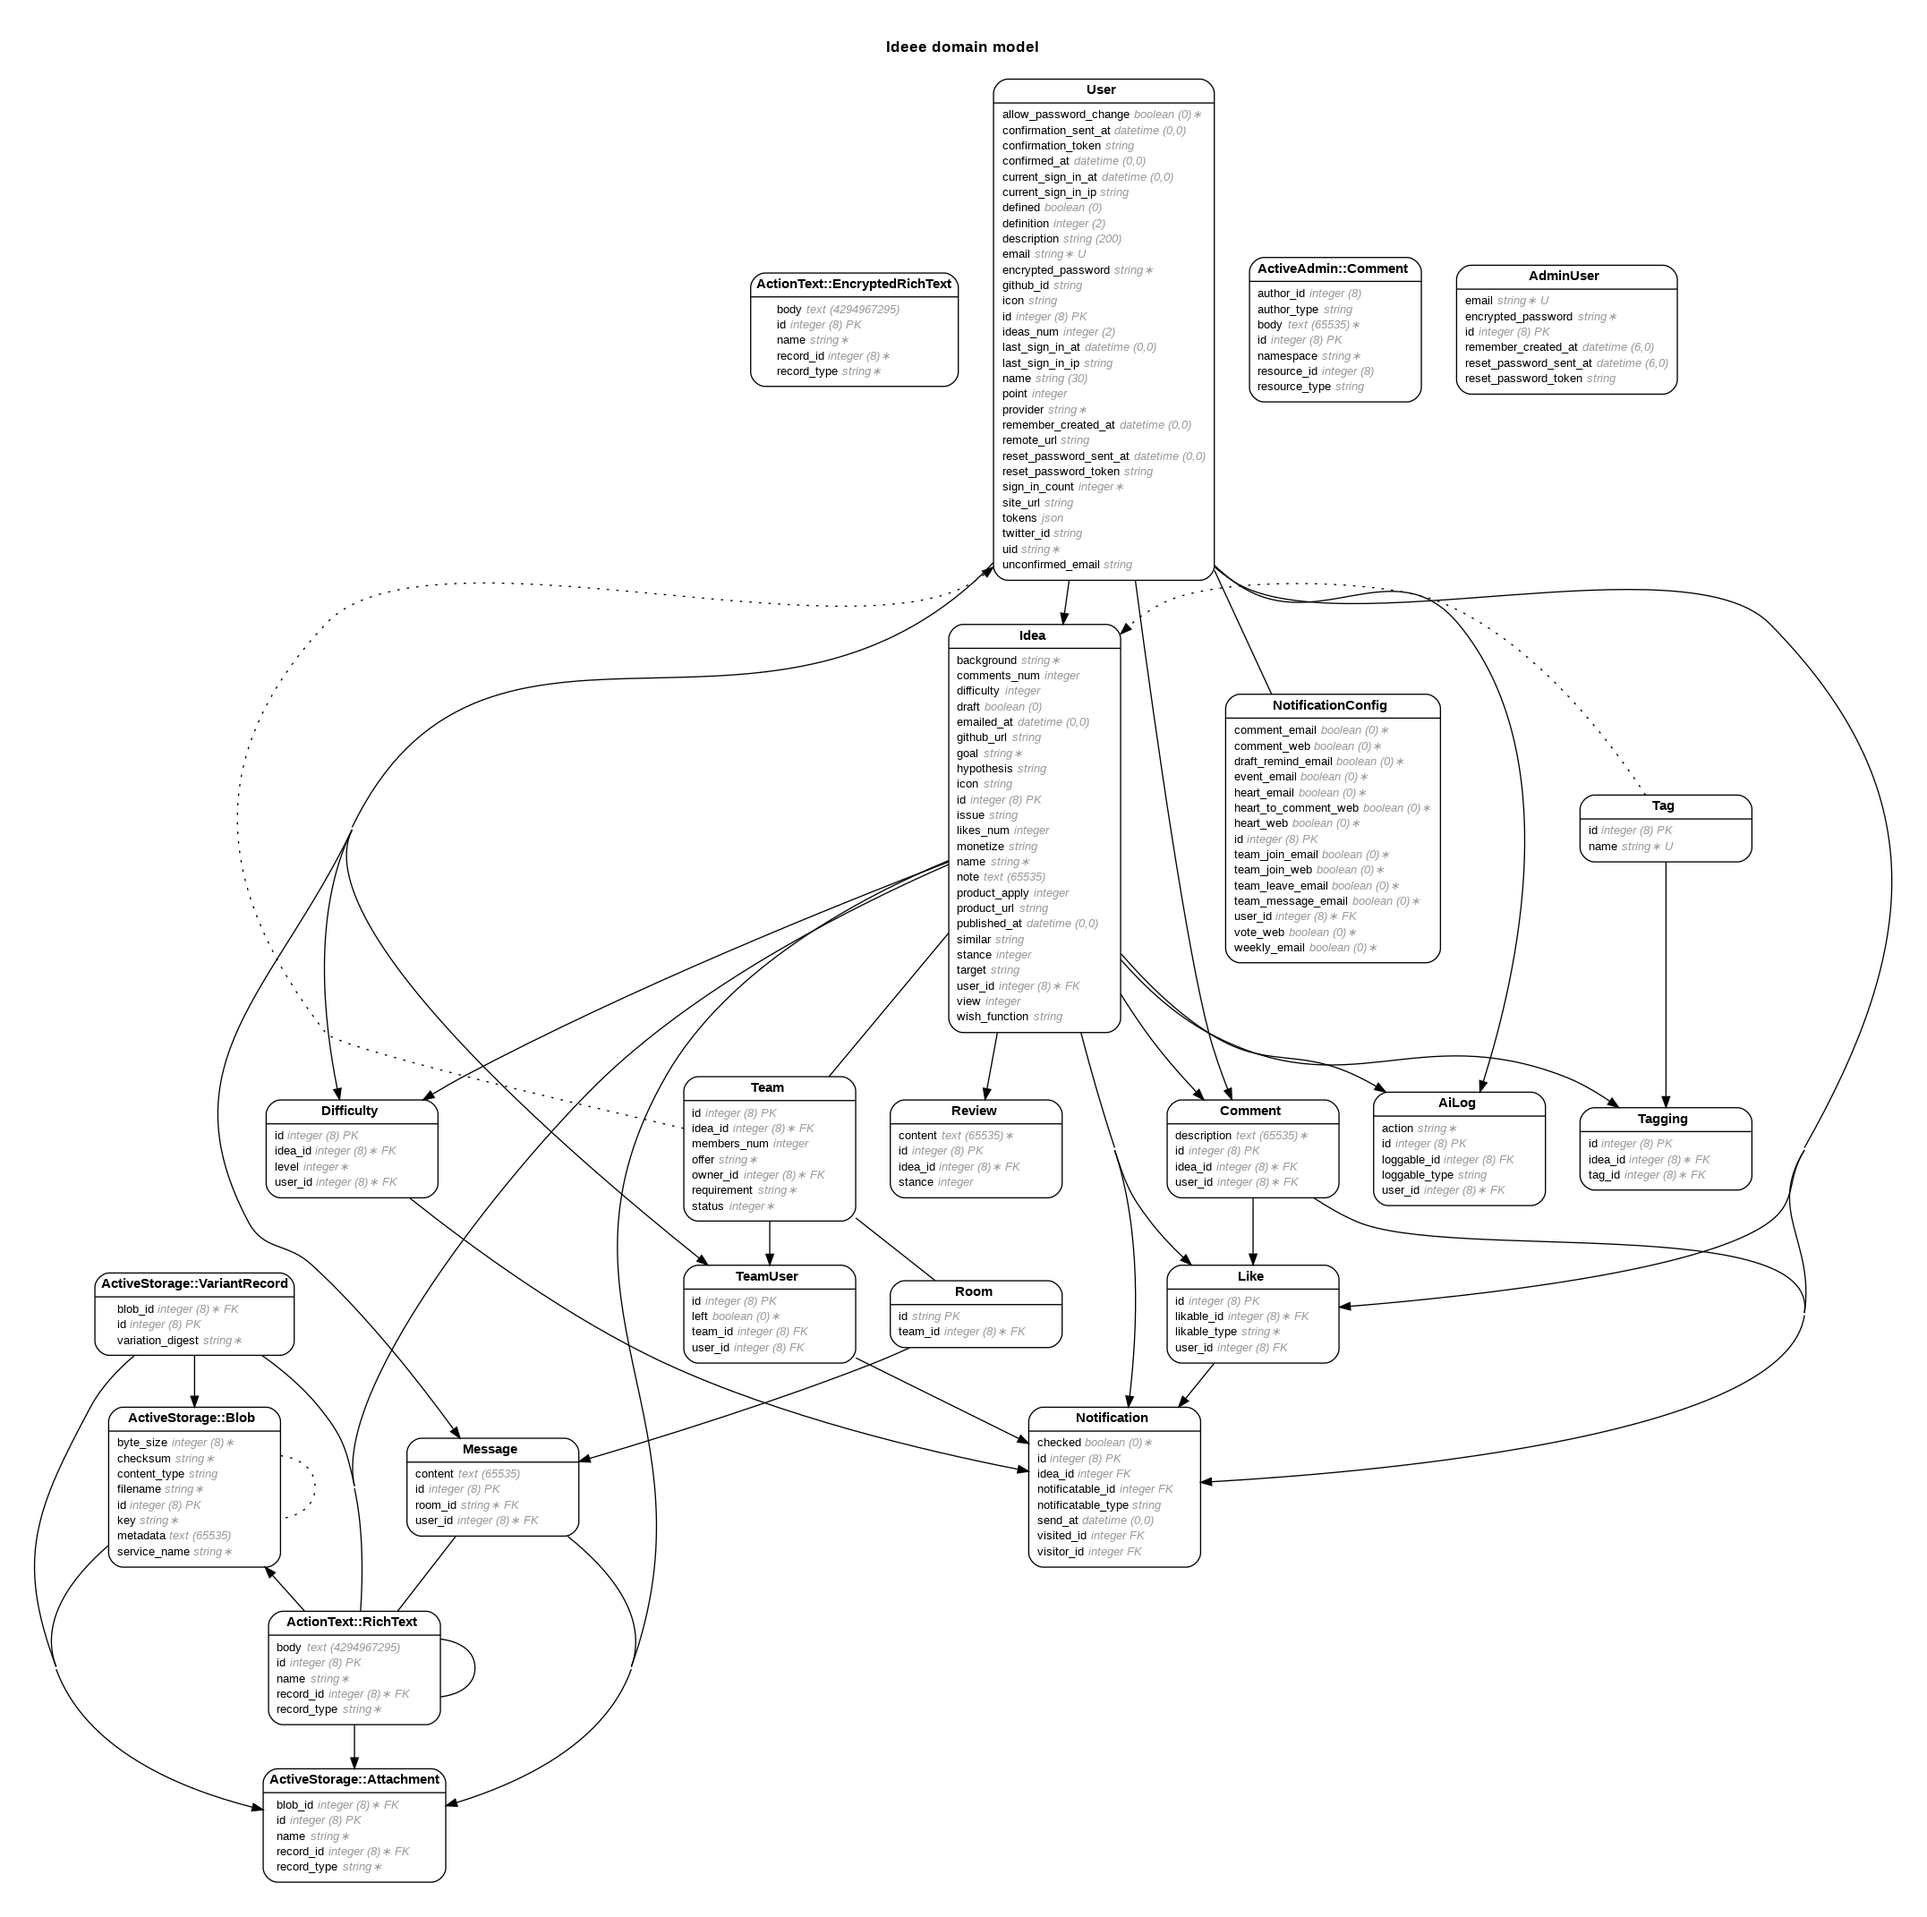
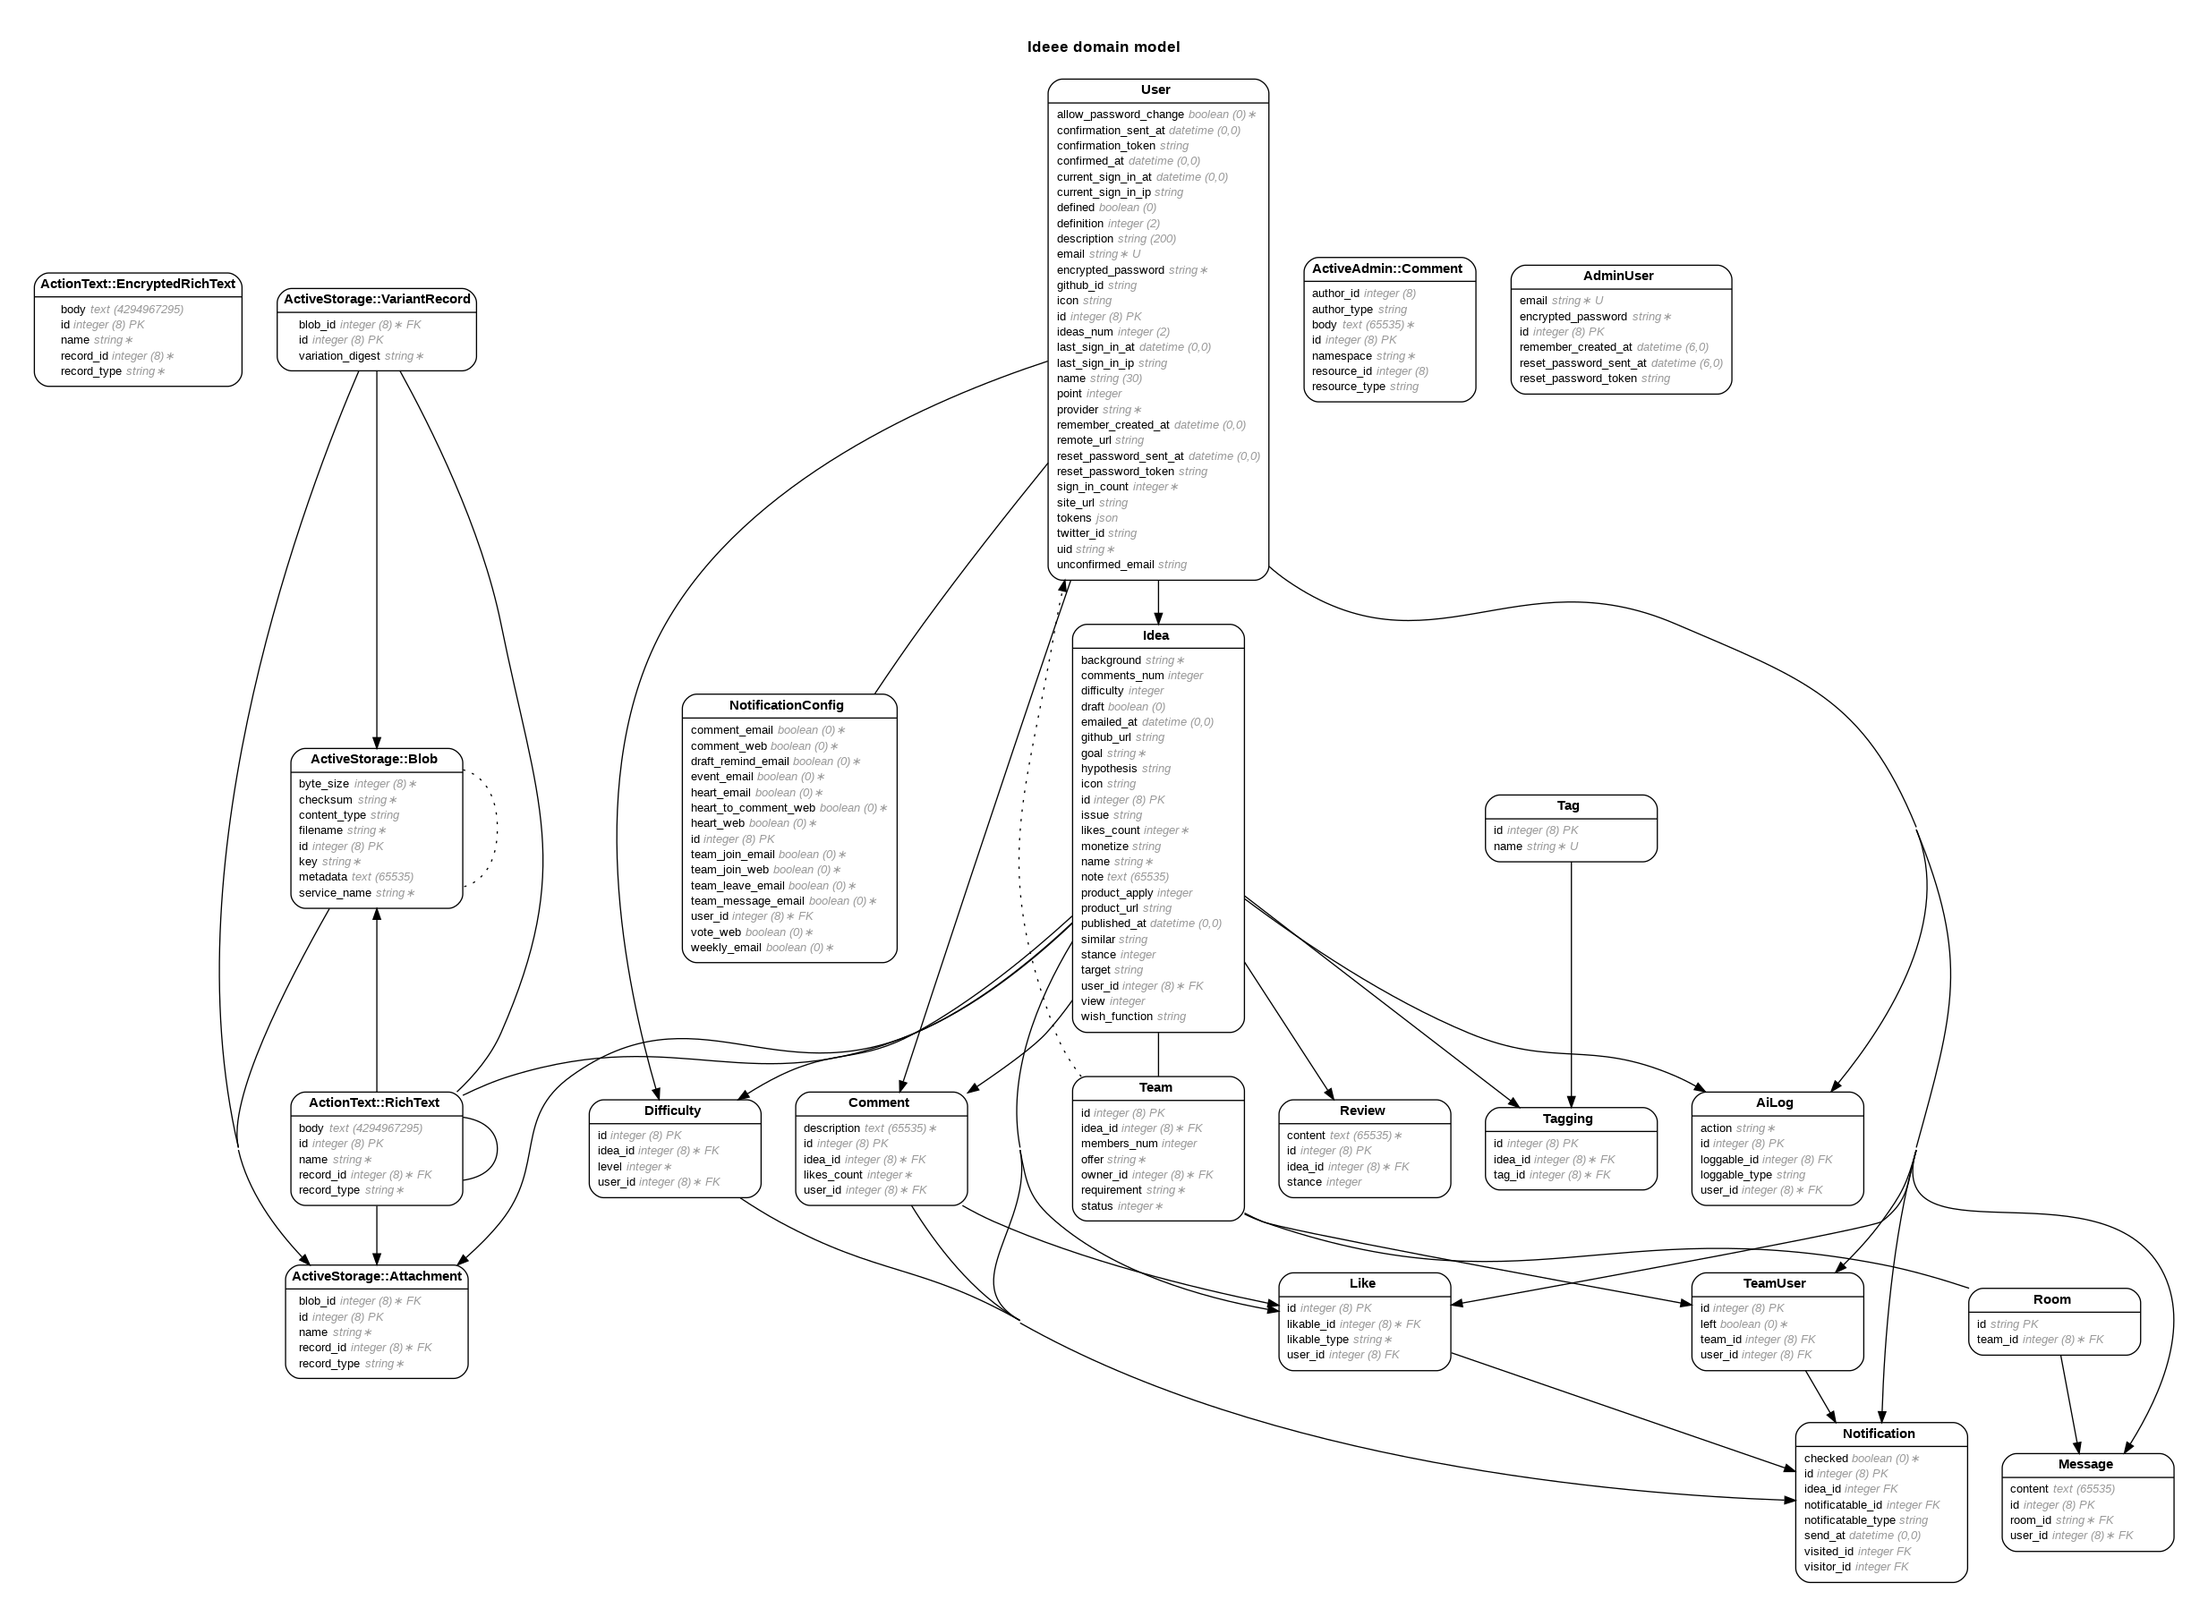
#1565 change: ideaへのlikeをlikes_countに移行

diff --git a/front/src/components/idea/option/Like.tsx b/front/src/components/idea/option/Like.tsx
@@ -12,27 +12,27 @@ import { useEffect, useState } from 'react'
  * @returns Button, IconHeartFilled, IconHeart
  */
 export const Like = () => {
-  const { likesNum, userId } = useIdea()
+  const { likesCount, userId } = useIdea()
   const router = useRouter()
   const { id } = router.query
   const { isLike, toggleLike, addCount } = useToggleLike(Number(id), 'Idea')
   const { currentUser } = useCurrentUser()
   const isOwnUser = userId == currentUser?.id
-  const [likesNumState, setLikesNumState] = useState(0)
+  const [likesCountState, setLikesCountState] = useState(0)
 
   useEffect(() => {
-    setLikesNumState(likesNum || 0)
-  }, [likesNum])
+    setLikesCountState(likesCount || 0)
+  }, [likesCount])
 
   useEffect(() => {
-    setLikesNumState((prev) => prev + addCount)
+    setLikesCountState((prev) => prev + addCount)
   }, [addCount])
 
   if (isOwnUser)
     return (
       <>
         <IconHeart style={{ color: 'black' }} />
-        <Text c="gray">{likesNum}</Text>
+        <Text c="gray">{likesCount}</Text>
       </>
     )
 
@@ -70,7 +70,7 @@ export const Like = () => {
             </div>
           )}
         </Transition>
-        {likesNumState > 0 && <Text c="gray">{likesNumState}</Text>}
+        {likesCountState > 0 && <Text c="gray">{likesCountState}</Text>}
       </Flex>
     </Button>
   )

diff --git a/front/src/components/idea/search/SortSegments.tsx b/front/src/components/idea/search/SortSegments.tsx
@@ -8,7 +8,7 @@ export const SortSegments = () => {
   const [selectedSort, setSelectedSort] = useState<string>('')
 
   useEffect(() => {
-    setSelectedSort(column_name ? String(column_name) : 'likes_num')
+    setSelectedSort(column_name ? String(column_name) : 'likes_count')
   }, [column_name])
 
   const handleSortChange = (value: string) => {
@@ -29,7 +29,7 @@ export const SortSegments = () => {
         radius="xl"
         color="yellow"
         data={[
-          { value: 'likes_num', label: 'いいね数' },
+          { value: 'likes_count', label: 'いいね数' },
           { value: 'comments_num', label: 'コメント数' },
           { value: 'published_at', label: '公開時間' },
         ]}

diff --git a/api/db/schema.rb b/api/db/schema.rb
@@ -10,7 +10,7 @@
 #
 # It's strongly recommended that you check this file into your version control system.
 
-ActiveRecord::Schema[7.0].define(version: 2024_06_29_052241) do
+ActiveRecord::Schema[7.0].define(version: 2024_11_05_031311) do
   create_table "action_text_rich_texts", charset: "utf8mb4", force: :cascade do |t|
     t.string "name", null: false
     t.text "body", size: :long
@@ -74,7 +74,7 @@ ActiveRecord::Schema[7.0].define(version: 2024_06_29_052241) do
     t.index ["email", "reset_password_token"], name: "index_admin_users_on_email_and_reset_password_token", unique: true
   end
 
-  create_table "ai_logs", charset: "utf8mb4", comment: "AIログ", force: :cascade do |t|
+  create_table "ai_logs", charset: "utf8mb4", force: :cascade do |t|
     t.bigint "user_id", null: false
     t.string "action", null: false
     t.datetime "created_at", null: false
@@ -96,6 +96,7 @@ ActiveRecord::Schema[7.0].define(version: 2024_06_29_052241) do
     t.bigint "idea_id", null: false
     t.datetime "created_at", null: false
     t.datetime "updated_at", null: false
+    t.integer "likes_count", default: 0, null: false
     t.index ["idea_id"], name: "index_comments_on_idea_id"
     t.index ["user_id"], name: "index_comments_on_user_id"
   end
@@ -119,7 +120,6 @@ ActiveRecord::Schema[7.0].define(version: 2024_06_29_052241) do
     t.datetime "created_at", null: false
     t.datetime "updated_at", null: false
     t.bigint "user_id", null: false
-    t.integer "likes_num", default: 0
     t.integer "difficulty", default: 0
     t.boolean "draft", default: false
     t.integer "comments_num", default: 0
@@ -137,6 +137,7 @@ ActiveRecord::Schema[7.0].define(version: 2024_06_29_052241) do
     t.string "github_url"
     t.string "monetize"
     t.integer "stance", default: 0
+    t.integer "likes_count", default: 0, null: false
     t.index ["user_id"], name: "index_ideas_on_user_id"
   end
 
@@ -192,7 +193,7 @@ ActiveRecord::Schema[7.0].define(version: 2024_06_29_052241) do
     t.index ["notificatable_id", "notificatable_type"], name: "index_notifications_on_notificatable_id_and_notificatable_type"
   end
 
-  create_table "reviews", charset: "utf8mb4", comment: "レビュー", force: :cascade do |t|
+  create_table "reviews", charset: "utf8mb4", force: :cascade do |t|
     t.bigint "idea_id", null: false
     t.text "content", null: false
     t.integer "stance"

diff --git a/api/spec/requests/graphql/resolvers/idea/ideas_resolver_spec.rb b/api/spec/requests/graphql/resolvers/idea/ideas_resolver_spec.rb
@@ -13,7 +13,7 @@ RSpec.describe Resolvers::Idea::IdeasResolver do
               name
               commentsNum
               stance
-              likesNum
+              likesCount
               view
               updatedAt
               publishedAt
@@ -138,7 +138,7 @@ RSpec.describe Resolvers::Idea::IdeasResolver do
       let!(:poor_idea) do
         create(
           :idea,
-          likes_num: 1,
+          likes_count: 1,
           comments_num: 1,
           view: 1,
           published_at: 5.days.ago,
@@ -148,7 +148,7 @@ RSpec.describe Resolvers::Idea::IdeasResolver do
       let!(:oldest_idea) do
         create(
           :idea,
-          likes_num: 2,
+          likes_count: 2,
           comments_num: 2,
           view: 2,
           published_at: 10.days.ago,
@@ -158,7 +158,7 @@ RSpec.describe Resolvers::Idea::IdeasResolver do
       let!(:popular_idea) do
         create(
           :idea,
-          likes_num: 3,
+          likes_count: 3,
           comments_num: 3,
           view: 3,
           published_at: 3.days.ago,
@@ -172,18 +172,18 @@ RSpec.describe Resolvers::Idea::IdeasResolver do
         create(:team, idea: popular_idea, owner: popular_idea.user, members_num: 3)
       end
 
-      context 'デフォルトのlikes_num descでソートする場合' do
+      context 'デフォルトのlikes_count descでソートする場合' do
         let(:variables) do
           {
             searchCondition: {}
           }
         end
 
-        it 'likes_numを降順に並び替えること' do
+        it 'likes_countを降順に並び替えること' do
           expect(graphql_post).to eq 200
           res_json = response.parsed_body
           expect(res_json['data']['ideas']['nodes'].length).to eq 3
-          expect(res_json['data']['ideas']['nodes'].first['likesNum']).to eq popular_idea.likes_num
+          expect(res_json['data']['ideas']['nodes'].first['likesCount']).to eq popular_idea.likes_count
         end
       end
 

diff --git a/api/app/models/idea.rb b/api/app/models/idea.rb
@@ -15,7 +15,7 @@
 #  hypothesis                                               :string(255)
 #  icon                                                     :string(255)
 #  issue                                                    :string(255)
-#  likes_num                                                :integer          default(0)
+#  likes_count                                              :integer          default(0), not null
 #  monetize                                                 :string(255)
 #  name                                                     :string(255)
 #  note                                                     :text(65535)
@@ -69,7 +69,7 @@ class Idea < ApplicationRecord
 
   scope :published, -> { where draft: false }
   scope :drafts, -> { where draft: true }
-  scope :most_liked, -> { preload(:idea_tags).order(likes_num: 'DESC') }
+  scope :most_liked, -> { preload(:idea_tags).order(likes_count: 'DESC') }
   scope :most_commented, -> { preload(:idea_tags).order(comments_num: 'DESC') }
   scope :recent_select, -> { where(published_at: 6.months.ago..Time.zone.now) }
   scope :not_emailed, -> { where(emailed_at: nil) }
@@ -80,7 +80,7 @@ class Idea < ApplicationRecord
   scope :team_active, -> { eager_load(:team).where(team: { status: :active }) }
 
   def self.ransackable_attributes(_auth_object = nil)
-    %w[id name published_at stance difficulty comments_num likes_num updated_at].map(&:to_s) + _ransackers.keys
+    %w[id name published_at stance difficulty comments_num likes_count updated_at].map(&:to_s) + _ransackers.keys
   end
 
   def self.ransackable_associations(_auth_object = nil)
@@ -89,10 +89,6 @@ class Idea < ApplicationRecord
 
   def created_time
     created_at.strftime('%Y.%m.%d')
-  end
-
-  def count_likes
-    update_column(:likes_num, likes.size)
   end
 
   def save_with_tags!(tag_list)

diff --git a/api/spec/factories/ideas.rb b/api/spec/factories/ideas.rb
@@ -15,7 +15,7 @@
 #  hypothesis                                               :string(255)
 #  icon                                                     :string(255)
 #  issue                                                    :string(255)
-#  likes_num                                                :integer          default(0)
+#  likes_count                                              :integer          default(0), not null
 #  monetize                                                 :string(255)
 #  name                                                     :string(255)
 #  note                                                     :text(65535)

diff --git a/api/app/graphql/resolvers/idea/ideas_resolver.rb b/api/app/graphql/resolvers/idea/ideas_resolver.rb
@@ -6,7 +6,7 @@ module Resolvers
     include Resolvers::Concerns::Pagination
 
     argument :search_condition, Types::Idea::SearchConditionType, required: false, description: 'アイデア検索条件'
-    argument :sort, Types::SortConditionType, required: false, default_value: { column_name: 'likes_num' }, description: 'ソート順'
+    argument :sort, Types::SortConditionType, required: false, default_value: { column_name: 'likes_count' }, description: 'ソート順'
 
     type Types::Idea::IdeasType, null: false
 

diff --git a/api/app/graphql/types/idea/idea_type.rb b/api/app/graphql/types/idea/idea_type.rb
@@ -13,7 +13,7 @@ module Types
     field :hypothesis, String, description: '仮説'
     field :icon_url, String, description: 'アイコンURL'
     field :issue, String, description: '課題・困っていること'
-    field :likes_num, Integer, description: 'ハート数'
+    field :likes_count, Integer, description: 'ハート数'
     field :monetize, String, description: 'マネタイズ方法'
     field :name, String, null: false, description: 'アイデア名'
     field :note, String, description: '補足'

diff --git a/api/app/models/like.rb b/api/app/models/like.rb
@@ -20,18 +20,8 @@ class Like < ApplicationRecord
   belongs_to :user
   belongs_to :likable, polymorphic: true, optional: true
 
-  after_create :count_likes
-
   has_many :notifications, dependent: :destroy, as: :notificatable
+  counter_culture :likable
 
   scope :type_idea_ids, -> { where(likable_type: 'Idea').pluck(:likable_id) }
-
-  private
-
-  def count_likes
-    return unless likable_type == 'Idea'
-
-    idea = ::Idea.find(likable_id)
-    idea.count_likes
-  end
 end

diff --git a/api/app/models/concerns/reserved_email.rb b/api/app/models/concerns/reserved_email.rb
@@ -86,7 +86,7 @@ module ReservedEmail
     "
       <div style='background-color: white; margin: 3px 0; padding: 5px;'>
         <div style='display: inline;'>
-          💛 #{idea.likes_num} 💬 #{idea.comments_num} #{analytics_url("ideas/#{idea.id}", 'ranking', idea.name)}
+          💛 #{idea.likes_count} 💬 #{idea.comments_num} #{analytics_url("ideas/#{idea.id}", 'ranking', idea.name)}
         </div>
       </div>
     "

diff --git a/api/db/migrate/20241105031311_change_idea_likes_num_to_likes_count.rb b/api/db/migrate/20241105031311_change_idea_likes_num_to_likes_count.rb
@@ -1,0 +1,8 @@
+class ChangeIdeaLikesNumToLikesCount < ActiveRecord::Migration[7.0]
+  def change
+    change_table :ideas, bulk: true do |t|
+      t.remove :likes_num, :integer, comment: 'いいねの数'
+      t.integer :likes_count, null: false, default: 0, comment: 'いいねの数'
+    end
+  end
+end

diff --git a/api/db/migrate/20241105025350_add_likes_count_to_comments.rb b/api/db/migrate/20241105025350_add_likes_count_to_comments.rb
@@ -1,5 +1,5 @@
 class AddLikesCountToComments < ActiveRecord::Migration[7.0]
   def change
-    add_column :comments, :likes_count, :integer, null: false, default: 0
+    add_column :comments, :likes_count, :integer, null: false, default: 0, comment: 'いいねの数'
   end
 end
